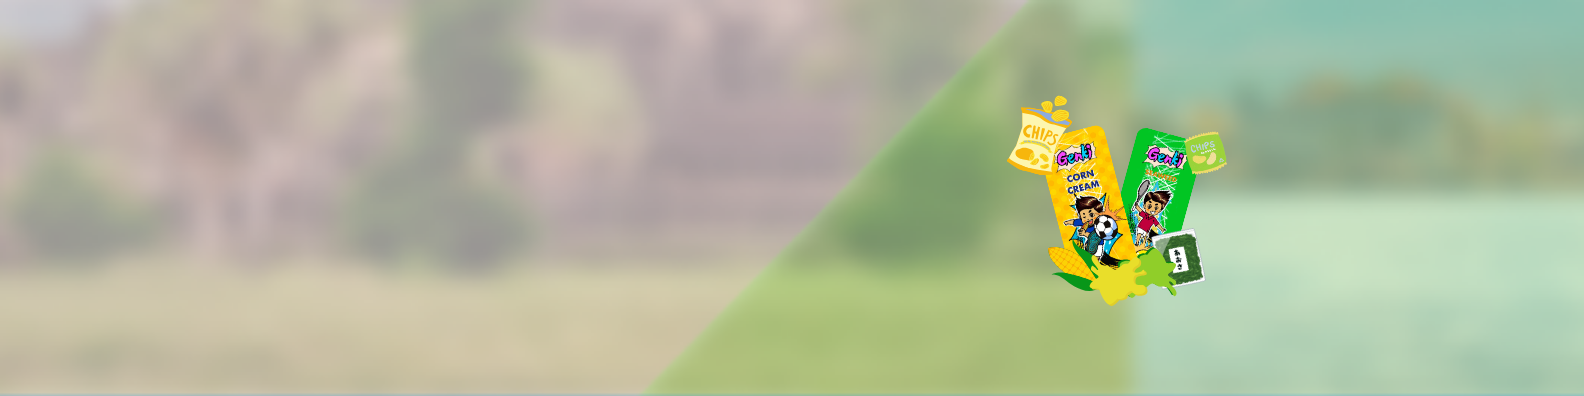
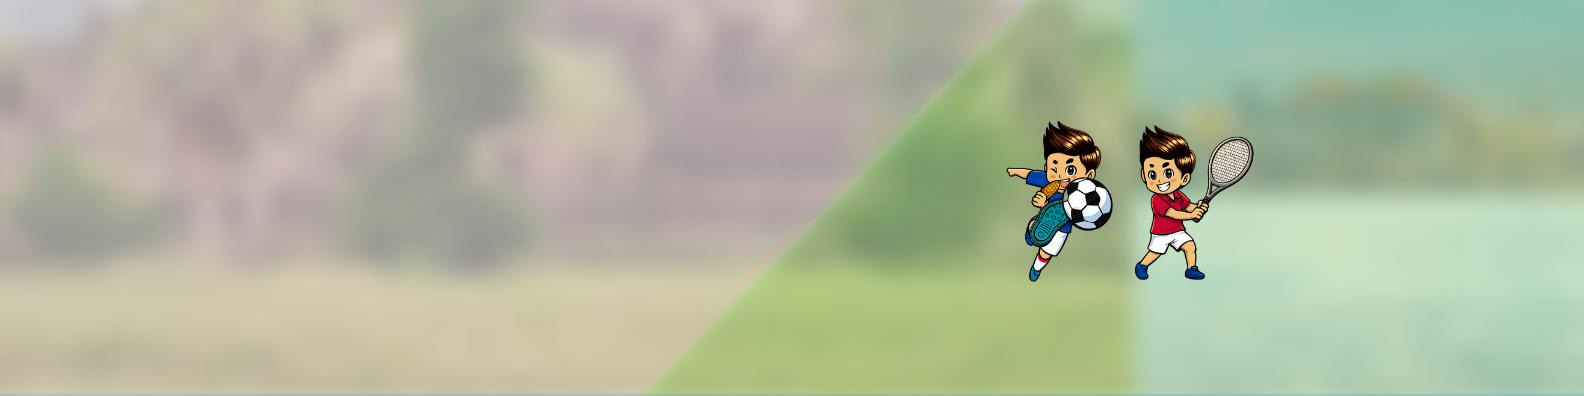
Update Hero Section

Changed region(s): [[0.6187, 0.2424, 0.8043, 0.7879]]

diff --git a/resources/js/Layouts/InnerPageLayout.jsx b/resources/js/Layouts/InnerPageLayout.jsx
@@ -9,46 +9,90 @@ function HomeHero({ image = "/images/banner1.png" }) {
         <img
           src={image}
           alt="Home banner"
-          className="absolute inset-0 h-full w-full object-fit"
+          className="absolute inset-0 h-full w-full object-cover"
           draggable={false}
         />
 
-        <div className="absolute inset-0 bg-gradient-to-r from-black/40 via-black/10 to-transparent" />
-        <div className="absolute inset-x-0 bottom-0 h-20 bg-gradient-to-t from-white to-transparent" />
+        {/* Enhanced Gradients for Text Readability */}
+        <div className="absolute inset-0 bg-gradient-to-r from-black/70 via-black/20 to-transparent" />
+        <div className="absolute inset-x-0 bottom-0 h-32 bg-gradient-to-t from-white via-white/50 to-transparent opacity-90" />
 
         <div className="relative z-10 mx-auto flex h-full max-w-7xl items-center px-4 sm:px-6 lg:px-12">
-          <div className="w-full max-w-4xl">
-            <p className="text-[15px] sm:text-[16px] font-Bold uppercase tracking-[0.3em] text-white/90">
-              DKTD-Genki
-            </p>
+          <div className="grid grid-cols-1 lg:grid-cols-2 lg:items-center w-full gap-12">
+            {/* Left Column: Text Content */}
+            <div className="w-full max-w-4xl">
+              {/* Kicker with accent line */}
+              <div className="flex items-center gap-3 mb-4">
+                <div className="h-[2px] w-10 bg-[#C46A2A] shadow-md" />
+                <p className="text-[13px] sm:text-[14px] font-Bold uppercase tracking-[0.3em] text-white/90 drop-shadow-md">
+                  DKTD-Genki
+                </p>
+              </div>
 
-            <h1 className="whitespace-nowrap text-[38px] sm:text-[50px] md:text-[62px] lg:text-[70px] font-Bold leading-tight text-[#C46A2A] drop-shadow">
-              <span className="block">Premium Snacks</span>
-              <span className="block text-[#185C9B]">For Everyone</span>
-            </h1>
+              {/* Main Title - White + Orange Accent */}
+              <h1 className="text-[32px] sm:text-[45px] md:text-[55px] lg:text-[65px] font-Bold leading-tight text-white drop-shadow-2xl font-display">
+                <span className="block drop-shadow-sm">Premium Snacks</span>
+                <span className="block text-[#C46A2A] relative w-fit mt-1">
+                  For Everyone
+                  {/* Decorative Smile Underline */}
+                  <svg className="absolute -bottom-2 sm:-bottom-4 left-0 w-full h-3 sm:h-5 text-[#185C9B]" viewBox="0 0 100 10" preserveAspectRatio="none">
+                    <path d="M0 5 Q 50 15 100 5" stroke="currentColor" strokeWidth="4" fill="none" strokeLinecap="round" />
+                  </svg>
+                </span>
+              </h1>
 
-            <p className="mt-4 text-[18px] sm:text-[20px] md:text-[22px] text-[#C46A2A] leading-relaxed">
-              Imported snacks & candies that bring joy to every moment.
-            </p>
+              <p className="mt-6 text-[16px] sm:text-[18px] md:text-[20px] font-Medium text-white/95 leading-relaxed max-w-xl drop-shadow-lg tracking-wide">
+                Tasty Japanese snacks that bring joy to every moment.
+              </p>
 
-            <div className="mt-8 flex flex-wrap gap-3">
-              <a
-                href={route("products")}
-                className="inline-flex items-center justify-center rounded-full bg-[#185C9B] px-7 py-3 text-[12px] sm:text-[13px] font-Bold uppercase tracking-[0.2em] text-white shadow-lg shadow-[#185C9B]/30 hover:bg-[#124b80] transition-colors"
-              >
-                Shop Now
-              </a>
+              <div className="mt-8 flex flex-wrap gap-4">
+                <a
+                  href={route("contact")}
+                  className="
+                    group relative overflow-hidden rounded-full 
+                    bg-[#C46A2A] px-8 py-4 
+                    text-[12px] sm:text-[13px] font-Bold uppercase tracking-[0.2em] text-white 
+                    shadow-2xl shadow-orange-900/40 
+                    transition-all duration-500 
+                    hover:-translate-y-1 hover:shadow-orange-900/60
+                    border-2 border-[#C46A2A] hover:bg-transparent hover:text-white
+                  "
+                >
+                  <span className="relative z-10 flex items-center gap-2">
+                    Contact Us
+                    <svg className="w-4 h-4 transition-transform duration-500 group-hover:translate-x-1" fill="none" viewBox="0 0 24 24" stroke="currentColor">
+                      <path strokeLinecap="round" strokeLinejoin="round" strokeWidth={2.5} d="M17 8l4 4m0 0l-4 4m4-4H3" />
+                    </svg>
+                  </span>
+                  <div className="absolute inset-0 bg-white/20 translate-y-full transition-transform duration-500 group-hover:translate-y-0" />
+                </a>
+              </div>
+            </div>
 
-              <a
-                href={route("contact")}
-                className="inline-flex items-center justify-center rounded-full border-2 border-[#185C9B] bg-white/90 px-7 py-3 text-[12px] sm:text-[13px] font-Bold uppercase tracking-[0.2em] text-[#185C9B] hover:bg-[#f0f7ff] transition-colors"
-              >
-                Contact Us
-              </a>
+            {/* Right Column: Character Image */}
+            <div className="hidden lg:flex items-center justify-center lg:justify-end h-full">
+              <div className="relative w-full max-w-[605px] animate-float">
+                <img
+                  src="/images/character.png"
+                  alt="DKTD-Genki Character"
+                  className="w-full h-auto drop-shadow-[0_20px_50px_rgba(0,0,0,0.3)] transform rotate-[-2deg]"
+                />
+              </div>
             </div>
           </div>
         </div>
       </div>
+
+      <style dangerouslySetInnerHTML={{
+        __html: `
+        @keyframes float {
+          0%, 100% { transform: translateY(0) rotate(-2deg); }
+          50% { transform: translateY(-30px) rotate(1deg); }
+        }
+        .animate-float {
+          animation: float 6s ease-in-out infinite;
+        }
+      `}} />
     </section>
   );
 }

diff --git a/resources/js/Components/SiteFooter.jsx b/resources/js/Components/SiteFooter.jsx
@@ -44,7 +44,7 @@ export default function SiteFooter() {
             </div>
 
             <p className="mt-4 text-[15px] text-slate-700">
-              Perfectly crispy chips made to match every flavor mood you’re in.
+              Genki snack will make Cambodia people happy and smile.
             </p>
 
             <div className="mt-4 flex items-center gap-4">

diff --git a/resources/lang/kh/messages.php b/resources/lang/kh/messages.php
@@ -21,9 +21,9 @@ return [
     'about_intro_subtitle' => 'អំពីពួកយើង',
     'products_intro_subtitle' => 'ស្វែងយល់ពីរសជាតិរបស់យើង',
     'promotion_intro_subtitle' => 'ការផ្តល់ជូននិងព័ត៌មានថ្មីៗ',
-    'short_Desc' => 'DKTD Genki មានឯកទេសលើបន្ទះសៀគ្វីដ៏ល្អឥតខ្ចោះដែលត្រូវបានរចនាឡើងដើម្បីផ្គូផ្គងគ្រប់រសជាតិ។ យីហោនេះផ្តល់អាទិភាពដល់អាហារសម្រន់ដែលផ្តល់ភាពសប្បាយរីករាយ ញញឹម ដែលផ្តល់ភាពរីករាយដល់កុមារ និងក្រុមគ្រួសារនៅក្នុងប្រទេសកម្ពុជា ជាពិសេសនៅជុំវិញទីក្រុងភ្នំពេញ។ \n\nគ្រឿងផ្សំដែលមានគុណភាព និងពូជដែលគួរឱ្យលេង ជំរុញបេសកកម្មរបស់ខ្លួនក្នុងការចែកចាយសុភមង្គលតាមរយៈរាល់ការខាំ។',
-    'years_legacy_number' => '25+',
-    'years_legacy_text' => 'ឆ្នាំនៃកេរ្តិ៍ដំណែល',
+    'short_Desc' => 'DKTD Genki គឺជាក្រុមហ៊ុនបណ្តាក់ទុនរួមគ្នាដ៏មានកិត្យានុភាព ដែលផ្សារភ្ជាប់នូវប្រពៃណីម្ហូបអាហារដ៏សម្បូរបែបរបស់កម្ពុជា ជាមួយនឹងភាពច្បាស់លាស់ និងការច្នៃប្រឌិតរបស់ជប៉ុន។ យើងប្តេជ្ញាផ្តល់នូវផលិតផលដែលមានគុណភាពកម្រិតពិភពលោក ដែលត្រូវបានកែច្នៃដោយបច្ចេកវិទ្យាជប៉ុន និងចំណង់ចំណូលចិត្តចំពោះឧត្តមភាព។ តាមរយៈការរួមបញ្ចូលគ្នានូវរសជាតិក្នុងស្រុកជាមួយស្តង់ដារសកល យើងមានគោលបំណងលើកកម្ពស់ស្នាមញញឹម និងបង្កើតពេលវេលាដ៏រីករាយសម្រាប់ក្រុមគ្រួសារនៅទូទាំងព្រះរាជាណាចក្រកម្ពុជា។',
+    'years_legacy_number' => '100%',
+    'years_legacy_text' => 'គុណភាពស្តង់ដារជប៉ុន',
     'find_our_store' => 'ស្វែងរកហាងរបស់យើង',
     'opening_hours' => 'ម៉ោងធ្វើការ',
     'opening_hours_time' => '9:00 ព្រឹក — 9:00 យប់',
@@ -36,9 +36,9 @@ return [
     'about_our_leader' => 'អ្នកដឹកនាំរបស់យើង។',
     'about_production_quality' => 'ផលិតកម្ម និងគុណភាព',
     'about_our_factory' => 'រោងចក្ររបស់យើង។',
-    'full_Desc' => "DKTD Genki ឈរជាអ្នកច្នៃប្រឌិតអាហារសម្រន់ដ៏រស់រវើករបស់កម្ពុជា ដោយបង្កើតនូវបន្ទះសៀគ្វីដ៏ក្រៀមក្រំដែលចាប់យកខ្លឹមសារនៃភាពសប្បាយរីករាយ និងរសជាតិសម្រាប់កុមារ និងក្រុមគ្រួសារនៅទូទាំងរាជធានីភ្នំពេញ និងលើសពីនេះ។ ក្រុមហ៊ុនមានឫសគល់នៅក្នុងទស្សនវិជ្ជា 'ធ្វើឱ្យក្មេងៗសប្បាយចិត្ត និងញញឹម—អាហារសម្រន់របស់យើងធ្វើឱ្យមនុស្សសប្បាយចិត្ត និងញញឹម' ក្រុមហ៊ុននេះបានលាយបញ្ចូលនូវរសជាតិក្នុងស្រុកជាមួយនឹងពូជដែលគួរឱ្យអស់សំណើច ដោយធានាថារាល់ការខាំផ្តល់នូវភាពរីករាយ និងបំពេញនូវចំណង់អាហារ។ ចាប់ពីរសជាតិឆ្ងាញ់រហូតដល់រសជាតិបែបបុរាណ DKTD Genki ផ្តល់អាទិភាពដល់គ្រឿងផ្សំដែលមានគុណភាព អនាម័យយ៉ាងម៉ត់ចត់ និងការផលិតប្រកបដោយភាពច្នៃប្រឌិត ដើម្បីផ្គូផ្គងអារម្មណ៍ណាមួយ ដោយដាក់ខ្លួនវាជាកន្លែងសម្រាប់សុភមង្គលប្រចាំថ្ងៃនៅក្នុងឈុតអាហារសម្រន់ដែលកំពុងរីកចម្រើននៅកម្ពុជា។ ប្រវតិ្តការសន្ទនា ប្រតិបត្តិការផ្តោតលើការចែកចាយថ្មីៗ និងអាចចូលដំណើរការបាន ខណៈពេលដែលពង្រីកដើម្បីនាំមកនូវស្នាមញញឹមកាន់តែច្រើន តាមរយៈការព្យាបាលបែបសហគមន៍ ដែលត្រូវបានអនុម័តដោយកុមារ ដែលអបអរភាពរស់រវើករបស់កម្ពុជា។",
-    'leader' => "The leader behind DKTD Genki embodies innovation in Cambodia's snack scene, steering the company toward joyful, kid-friendly products. With a vision to make everyday snacking a happy ritual, this figure champions local flavors while ensuring top-notch crispiness and safety. No public name like Terasaka links directly, but leadership focuses on customer smiles and growth.",
-    'factory' => "The leader behind DKTD Genki embodies innovation in Cambodia's snack scene, steering the company toward joyful, kid-friendly products. With a vision to make everyday snacking a happy ritual, this figure champions local flavors while ensuring top-notch crispiness and safety. No public name like Terasaka links directly, but leadership focuses on customer smiles and growth.",
+    'full_Desc' => "DKTD Genki គឺជាក្រុមហ៊ុនបណ្តាក់ទុនរួមគ្នាដ៏មានកិត្យានុភាព ដែលផ្សារភ្ជាប់នូវប្រពៃណីម្ហូបអាហារដ៏សម្បូរបែបរបស់កម្ពុជា ជាមួយនឹងភាពច្បាស់លាស់ និងការច្នៃប្រឌិតរបស់ប្រទេសជប៉ុន។ មូលដ្ឋានគ្រឹះរបស់យើងត្រូវបានកសាងឡើងលើជំនាញដ៏ជ្រៅ៖ ដៃគូកម្ពុជារបស់យើងនាំមកនូវបទពិសោធន៍រាប់ទសវត្សរ៍ក្នុងឧស្សាហកម្មម្ហូបអាហារ ខណៈដែលដៃគូជប៉ុនទាំងបីរបស់យើងរួមចំណែកនូវទស្សនវិស័យជាសកល ដែលធ្លាប់បានដឹកនាំអង្គភាពពាណិជ្ជកម្មខ្នាតធំ (Sogo-Shosha) បង្កើតបណ្តាញលក់ដុំបង្អែមជប៉ុន និងគ្រប់គ្រងអាជីវកម្មចែកចាយផ្លូវការនៅក្នុងតំបន់អាស៊ីអាគ្នេយ៍។\n\nរួមគ្នា យើងប្តេជ្ញាផ្តល់នូវផលិតផលអាហារសម្រន់ដែលមានគុណភាពកម្រិតពិភពលោក ដែលត្រូវបានកែច្នៃដោយបច្ចេកវិទ្យាជប៉ុន និងចំណង់ចំណូលចិត្តចំពោះឧត្តមភាព។",
+    'leader' => "ស្ថិតក្រោមការដឹកនាំប្រកបដោយការលះបង់របស់លោក Tetsuro Terasaka ក្រុមហ៊ុន DKTD Genki ត្រូវបានជំរុញដោយបេសកកម្មដ៏ចេញពីចិត្ត៖ ដើម្បីនាំមកនូវក្តីរីករាយដល់គ្រប់ទីកន្លែងក្នុងប្រទេសកម្ពុជាតាមរយៈអាហារសម្រន់ដ៏ឆ្ងាញ់ និងមានសុវត្ថិភាពខ្ពស់។ លោក Terasaka ចាត់ទុកអាហារមិនមែនគ្រាន់តែជាផលិតផលនោះទេ ប៉ុន្តែវាគឺជាស្ពានដើម្បីបង្កើតសុភមង្គល និងពង្រឹងទំនាក់ទំនងដ៏មានអត្ថន័យនៅក្នុងសហគមន៍។ ភាពជាអ្នកដឹកនាំរបស់លោកផ្តល់អាទិភាពដល់គុណភាពដែលមិនអាចរុះរើបាន និងការរីកចម្រើនរួមគ្នា ដើម្បីធានាថាគ្រប់ការខាំទាំងអស់ គឺជាពេលវេលានៃការជឿទុកចិត្ត និងការអបអរសាទរ។",
+    'factory' => "ស្ថិតនៅទីតាំងយុទ្ធសាស្ត្រនៅភាគខាងជើងនៃប្រទេសកម្ពុជា ជាមួយនឹងភាពងាយស្រួលក្នុងការធ្វើដំណើរទៅកាន់បេះដូងនៃរាជធានី គ្រឹះស្ថានដ៏ទំនើបរបស់យើងគឺជាកន្លែងដែលការផលិតដ៏ល្អឥតខ្ចោះចាប់ផ្តើម។ ខ្សែសង្វាក់ផលិតកម្មកម្រិតខ្ពស់របស់យើង រួមមានម៉ាស៊ីនលាយវត្ថុធាតុដើមដ៏ច្បាស់លាស់ ម៉ាស៊ីនបញ្ចេញរូបរាងប្រកបដោយប្រសិទ្ធភាពខ្ពស់ ម៉ាស៊ីនសម្ងួតឧស្សាហកម្ម និងបរិក្ខារវេចខ្ចប់ទំនើប ដែលត្រូវបានរចនាឡើងសម្រាប់ភាពជឿទុកចិត្តបានទាំងស្រុង។ គ្រប់ដំណាក់កាលនៃដំណើរការរបស់យើង ត្រូវបានត្រួតពិនិត្យយ៉ាងតឹងរ៉ឹងតាមស្តង់ដាររបស់ប្រទេសជប៉ុន ដើម្បីធានាថាគ្រប់អាហារសម្រន់ដែលចេញពីរោងចក្ររបស់យើង គឺស្របតាមស្តង់ដារសុវត្ថិភាព និងគុណភាពខ្ពស់បំផុត។",
 
     // Products Page
     'our_products' => 'ផលិតផលរបស់ពួកយើង',

diff --git a/resources/lang/en/messages.php b/resources/lang/en/messages.php
@@ -22,9 +22,9 @@ return [
     'about_intro_subtitle' => 'Who We Are',
     'products_intro_subtitle' => 'Explore Our Flavors',
     'promotion_intro_subtitle' => 'Latest Deals & News',
-    'short_Desc' => "DKTD Genki specializes in perfectly crispy chips designed to match every flavor mood. The brand prioritizes fun, smile-inducing snacks that delight kids and families in Cambodia, particularly around Phnom Penh.\n\n Quality ingredients and playful varieties drive its mission to spread happiness through every bite.",
-    'years_legacy_number' => '25+',
-    'years_legacy_text' => 'Years of Legacy',
+    'short_Desc' => "DKTD Genki is a prestigious joint venture bridging Cambodian culinary traditions with Japanese precision. We are committed to delivering world-class snacks crafted with Japanese technology and a passion for excellence. By combining authentic local flavors with global standards, we aim to inspire smiles and create joyful moments for families across the kingdom.",
+    'years_legacy_number' => '100%',
+    'years_legacy_text' => 'Japanese Quality',
     'find_our_store' => 'Find Our Store',
     'opening_hours' => 'Opening Hours',
     'opening_hours_time' => '9:00 AM — 9:00 PM',
@@ -37,10 +37,9 @@ return [
     'about_our_leader' => 'Our Leader',
     'about_production_quality' => 'Production & Quality',
     'about_our_factory' => 'Our Factory',
-    'full_Desc' => "DKTD Genki stands as a vibrant Cambodian snack innovator, crafting ultra-crispy chips that capture the essence of fun and flavor for kids and families across Phnom Penh and beyond.\n\n Rooted in the 'Make kids happy and smile—our snacks make people happy and smile' philosophy, the company blends local tastes with playful varieties, ensuring every bite sparks delight and satisfies cravings.
-    From zesty seasonings to classic crunch, DKTD Genki prioritizes quality ingredients, rigorous hygiene, and innovative production to match any mood. \n\nOperations focus on fresh, accessible distribution while scaling up to bring more smiles through community-oriented, kid-approved treats that celebrate Cambodian vibrancy.",
-    'leader' => "The leader behind DKTD Genki embodies innovation in Cambodia's snack scene, steering the company toward joyful, kid-friendly products. With a vision to make everyday snacking a happy ritual, this figure champions local flavors while ensuring top-notch crispiness and safety. No public name like Terasaka links directly, but leadership focuses on customer smiles and growth.",
-    'factory' => "DKTD Genki's factory embodies innovation and quality in Cambodia's snack industry, producing perfectly crispy chips that delight kids and families across Phnom Penh and beyond. Rooted in the 'Make kids happy and smile—our snacks make people happy and smile' philosophy, the company blends local tastes with playful varieties, ensuring every bite sparks delight and satisfies cravings. From zesty seasonings to classic crunch, DKTD Genki prioritizes quality ingredients, rigorous hygiene, and innovative production to match any mood. Operations focus on fresh, accessible distribution while scaling up to bring more smiles through community-oriented, kid-approved treats that celebrate Cambodian vibrancy.",
+    'full_Desc' => "DKTD Genki is a prestigious joint venture that bridges the rich culinary traditions of Cambodia with the precision and innovation of Japan. Our foundation is built on deep-rooted expertise: our Cambodian partner brings decades of experience in the food industry, while our three Japanese partners contribute a global perspective, having led major trading entities (Sogo-Shosha), established Japanese sweets wholesalers, and managed official dealerships in Southeast Asia.\n\nTogether, we are committed to delivering reliable, world-class snacks crafted with Japanese technology and a passion for excellence.",
+    'leader' => "Under the dedicated leadership of Tetsuro Terasaka, DKTD Genki is driven by a heartfelt mission: to infuse every corner of Cambodia with joy through premium, safe, and delicious snacks. Mr. Terasaka views food not merely as a product, but as a bridge to create happiness and foster meaningful connections within the community. His leadership prioritizes uncompromising quality and collaborative growth, ensuring that every bite shared is a moment of trust and celebration.",
+    'factory' => "Strategically located in Northern Cambodia with seamless access to the heart of the capital, our state-of-the-art facility is where the magic happens. Our advanced production line—featuring precision raw material mixers, high-efficiency extruders, industrial dryers, and modern packaging equipment—is designed for absolute reliability. Every stage of our process is strictly governed by rigorous Japanese standards, ensuring that every snack that leaves our factory meets the highest benchmarks for safety and quality.",
 
     // Products Page
     'our_products' => 'Our Products',

diff --git a/app/Http/Controllers/ProductController.php b/app/Http/Controllers/ProductController.php
@@ -87,7 +87,9 @@ class ProductController extends Controller
                 'status'       => $validated['status'],
                 'published_at' => $validated['published_at'] ?? null,
                 'start_date'   => $validated['start_date'] ?? null,
-                'end_date'     => $validated['end_date'] ?? null
+                'end_date'     => $validated['end_date'] ?? null,
+                'created_by'   => auth()->id(),
+                'updated_by'   => auth()->id(),
             ]);
             
             return response()->json([
@@ -168,6 +170,7 @@ class ProductController extends Controller
             'is_new'       => $validated['is_new'] ?? false,
             'status'       => $validated['status'],
             'published_at' => $validated['published_at'] ?? null,
+            'updated_by'   => auth()->id(),
         ]);
 
         return response()->json([
@@ -225,6 +228,7 @@ class ProductController extends Controller
         \App\Models\Product::whereIn('id', $data['product_ids'])->update([
             'start_date' => $data['start_date'] ?? null,
             'end_date'   => $data['end_date'] ?? null,
+            'updated_by' => auth()->id(),
         ]);
 
         return response()->json([
@@ -293,7 +297,10 @@ class ProductController extends Controller
         }
 
         // Reset all
-        \App\Models\Product::query()->where('show_on_home', '>', 0)->update(['show_on_home' => 0]);
+        \App\Models\Product::query()->where('show_on_home', '>', 0)->update([
+            'show_on_home' => 0,
+            'updated_by'   => auth()->id(),
+        ]);
 
         // Reverse the array so the newest selection (at the end of the input array) 
         // gets position 1 (leftmost when ordered ASC)
@@ -302,7 +309,10 @@ class ProductController extends Controller
         foreach ($ids as $index => $id) {
             // Assign position in order (first item in reversed array gets position 1)
             $position = $index + 1;
-            \App\Models\Product::where('id', $id)->update(['show_on_home' => $position]);
+            \App\Models\Product::where('id', $id)->update([
+                'show_on_home' => $position,
+                'updated_by'   => auth()->id(),
+            ]);
         }
 
         return response()->json([

diff --git a/app/Models/Product.php b/app/Models/Product.php
@@ -9,6 +9,18 @@ class Product extends Model
 {
     use HasFactory;
 
+    protected static function booted()
+    {
+        static::creating(function ($product) {
+            if (!$product->created_by) $product->created_by = auth()->id();
+            if (!$product->updated_by) $product->updated_by = auth()->id();
+        });
+
+        static::updating(function ($product) {
+            if (!$product->updated_by) $product->updated_by = auth()->id();
+        });
+    }
+
     protected $with = ['creator:id,name', 'updater:id,name'];
 
     protected $fillable = [

diff --git a/app/Models/Promotion.php b/app/Models/Promotion.php
@@ -9,6 +9,18 @@ class Promotion extends Model
 {
     use HasFactory;
 
+    protected static function booted()
+    {
+        static::creating(function ($model) {
+            if (!$model->created_by) $model->created_by = auth()->id();
+            if (!$model->updated_by) $model->updated_by = auth()->id();
+        });
+
+        static::updating(function ($model) {
+            if (!$model->updated_by) $model->updated_by = auth()->id();
+        });
+    }
+
     protected $with = ['creator:id,name', 'updater:id,name'];
 
     protected $fillable = [

diff --git a/app/Models/Category.php b/app/Models/Category.php
@@ -9,6 +9,18 @@ class Category extends Model
 {
     use HasFactory;
 
+    protected static function booted()
+    {
+        static::creating(function ($model) {
+            if (!$model->created_by) $model->created_by = auth()->id();
+            if (!$model->updated_by) $model->updated_by = auth()->id();
+        });
+
+        static::updating(function ($model) {
+            if (!$model->updated_by) $model->updated_by = auth()->id();
+        });
+    }
+
     protected $with = ['creator:id,name', 'updater:id,name'];
 
     protected $fillable = [
